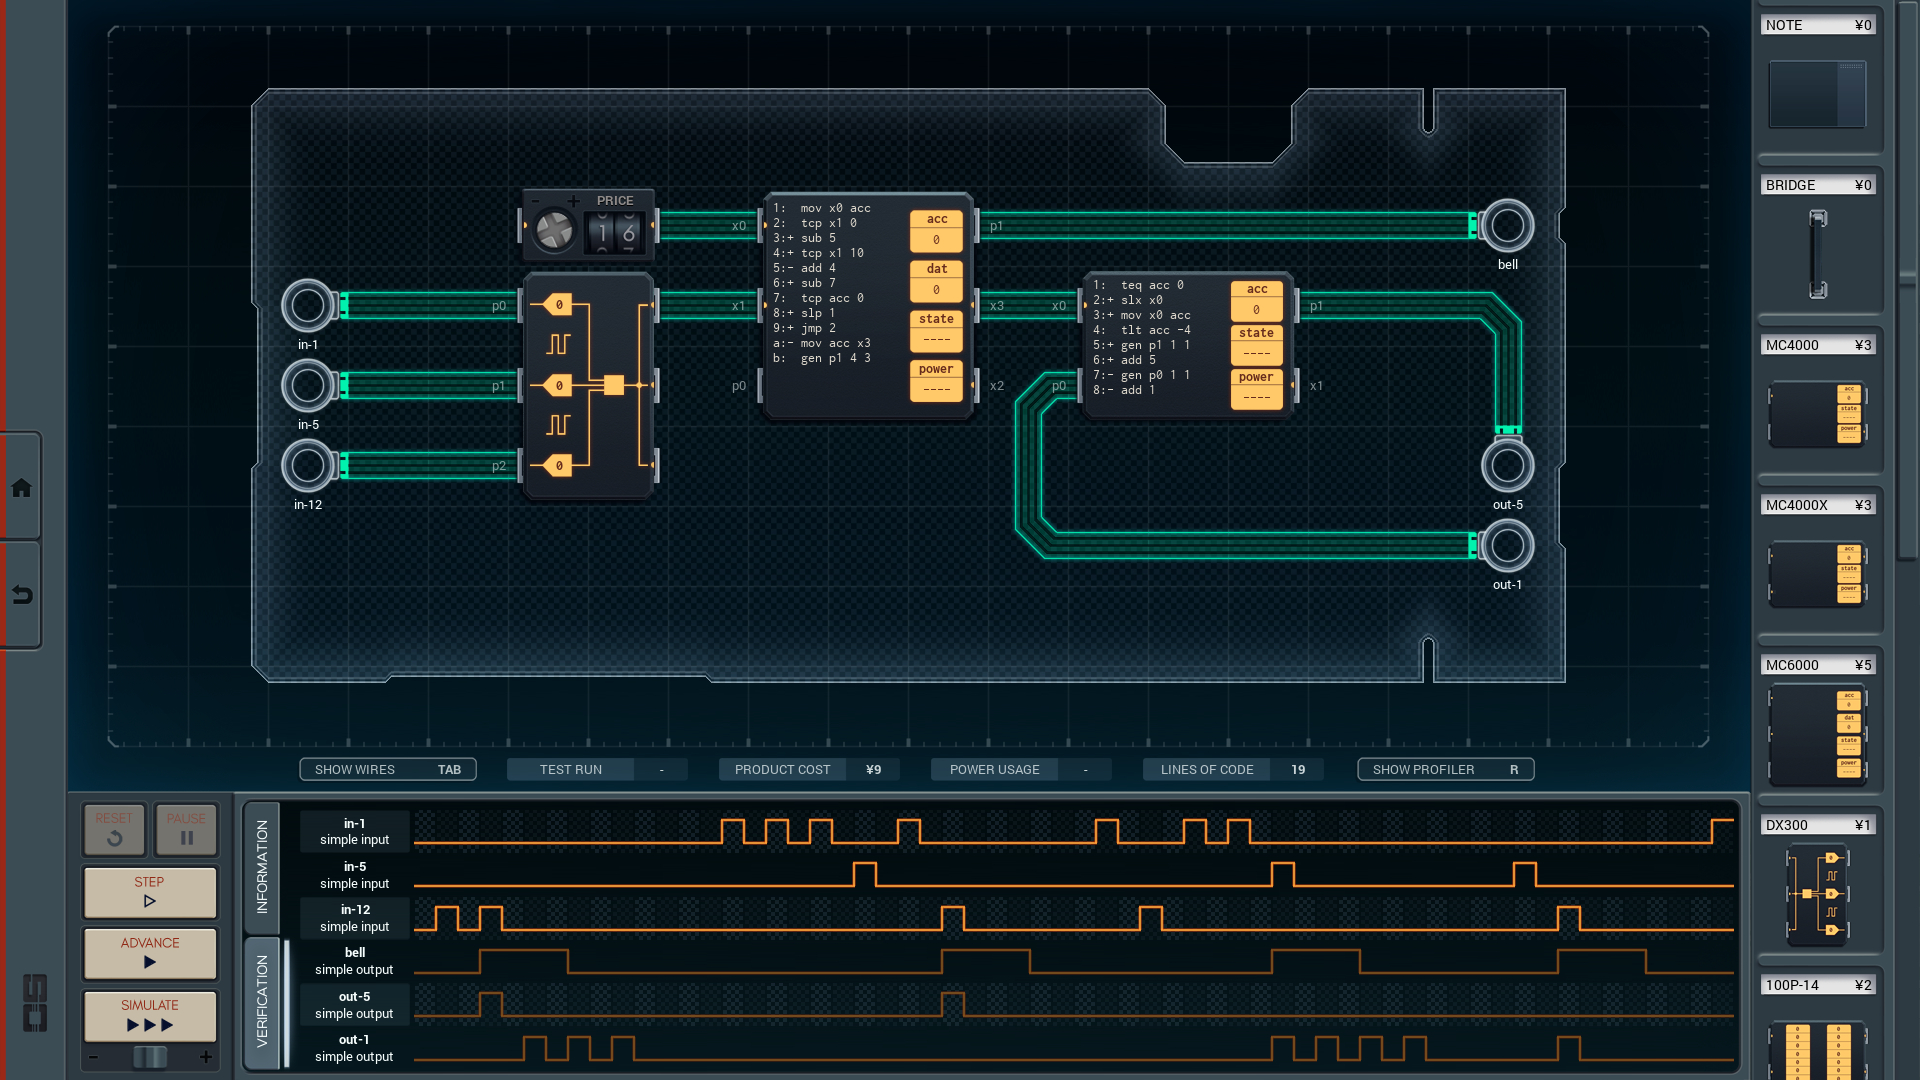
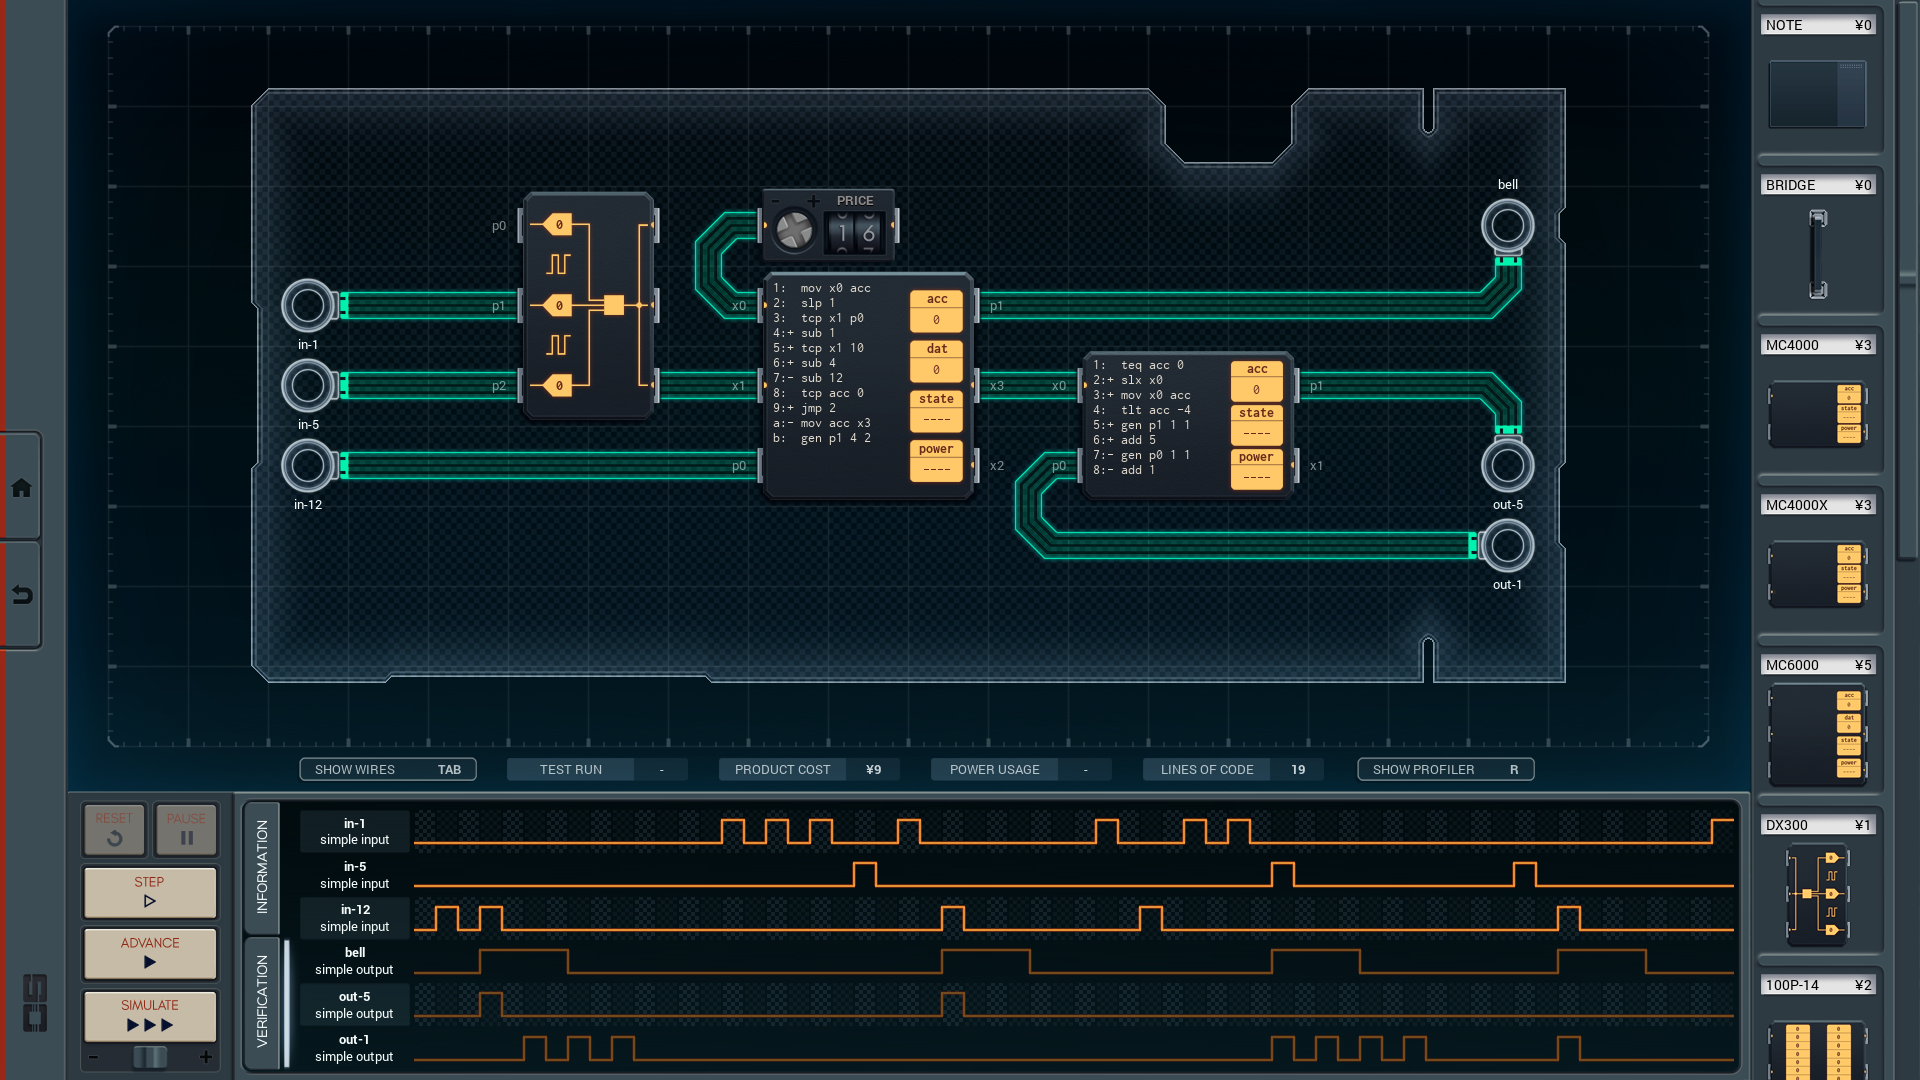
2023/04/24 Optimized the Token Based Payment Kiosk solutions
=== MIN COST & LINES SOLUTION ===
[BEF] 9C / 321P / 19L
[AFT] 9C / 309P / 19L

=== MIN POWER SOLUTION ===
[BEF] 14C / 240P / 20L
[AFT] 14C / 232P / 20L

Changed region(s): [[0.25, 0.1528, 0.8125, 0.4583], [0.125, 0.8556, 0.1562, 1.0]]

diff --git a/013-token-based-payment-kiosk/README.md b/013-token-based-payment-kiosk/README.md
@@ -1,9 +1,9 @@
-9/321/19 (MIN COST & LINES) SOLUTION
+9/309/19 (MIN COST & LINES) SOLUTION
 ------------------------------------
 
 ![screenshot0](https://github.com/shiawasenahikari/Shenzhen-IO-Solutions/blob/master/013-token-based-payment-kiosk/screenshot0.png)
 
-14/240/20 (MIN POWER) SOLUTION
+14/232/20 (MIN POWER) SOLUTION
 ------------------------------
 
 ![screenshot1](https://github.com/shiawasenahikari/Shenzhen-IO-Solutions/blob/master/013-token-based-payment-kiosk/screenshot1.png)
